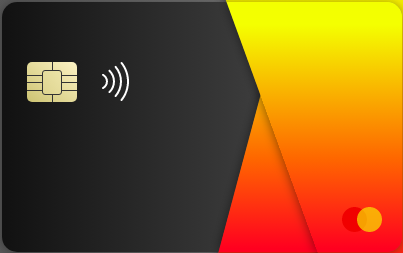
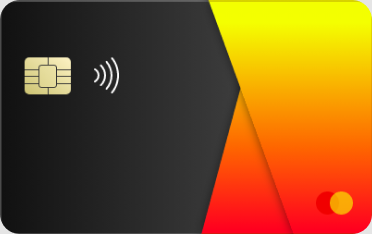
Prototipo Card

diff --git a/client/components/MyCards.js b/client/components/MyCards.js
@@ -1,33 +1,75 @@
-import React, { Component } from "react";
-import { View, Text, StyleSheet } from "react-native";
-import { CreditCardInput, CardView } from "react-native-credit-card-input";
+import React from "react";
+import { View, StyleSheet, Image, Text } from "react-native";
+import { CardView } from "react-native-credit-card-input";
+import ClientCard from "./ClientCard";
+import MenuCards from "./MenuCards";
 
 function CreditCard() {
   return (
     <View style={styles.container}>
-      <CardView
-        appStack
-        brand="henry"
-        name="DR Oliver"
-        number="12345678"
-        expiry="13/20"
-        cvc="12"
-        scale={1.25}
-        imageFront={require("../assets/yellowBackground.png")}
-        imageBack={require("./frontCard.png")}
+      <View style={styles.backMenu}>
+        <Text style={styles.title}>My Cards</Text>
+      <View style={styles.menu}>
+        <MenuCards/>
+      </View>
+      </View>
+      <View style={styles.card}>
+        <CardView
+          onFocused
+          appStack
+          cvc="123" // Epale revisa esto. Ese numero no esta saliendo por ningun lado
+          brand="henry"
+          name="DR Oliver"
+          number="12345678"
+          expiry="13/20"
+          scale={1.25}
+          imageFront={require("../assets/yellowBackground.png")}
+          imageBack={require("../assets/cardBackOk.png")}
+        />
+      </View>
 
-      />
 
+      <ClientCard/>
+      {/* <Image
+        style={styles.img}
+        source={require('../assets/bgSectionCard.jpg')}
+        /> */}
     </View>
+
   );
 }
 
 const styles = StyleSheet.create({
   container: {
-    flex: 1,
     alignItems: "center",
     justifyContent: "center",
-    backgroundColor: "white",
+    backgroundColor: "#FBD43B",
+    flex: 1,
+  },
+  img: {
+    height: "120%", 
+    zIndex: 0,
+  },
+  card: {
+    zIndex: 2,
+    bottom: "10%"
+  },
+  backMenu: {
+    bottom: "16%",
+    width:500,
+    height: 160,
+    backgroundColor: "black",
+    zIndex: 2,
+  },
+  title: {
+    color: "white",
+    fontSize: 40,
+    left: 160,
+    top: "30%",
+  },
+  menu: {
+  top: 685,
+  zIndex: 4
   },
 });
 

diff --git a/client/components/MenuCards.js b/client/components/MenuCards.js
@@ -1,0 +1,29 @@
+import React from 'react';
+import { Container, Header, Content, Footer, FooterTab, Button, Icon, Text } from 'native-base';
+function MenuCards() {
+    return (
+      <Container>
+        <Header />
+        <Content />
+        <Footer>
+          <FooterTab style={{backgroundColor: 'black'}}>
+            <Button vertical>
+              <Icon name="download" style={{ color: 'white' }} />
+              <Text style={{ color: 'white' }}>recharge</Text>
+            </Button>
+   
+            <Button vertical >
+              <Icon active name="send" style={{ color: 'white' }} />
+              <Text style={{ color: 'white' }}>Send</Text>
+            </Button>
+            <Button vertical>
+              <Icon name="trending-up" style={{ color: 'white' }} />
+              <Text style={{ color: 'white' }}>Statistics</Text>
+            </Button>
+          </FooterTab>
+        </Footer>
+      </Container>
+    );
+}
+
+export default MenuCards;

diff --git a/client/components/ClientCard.js b/client/components/ClientCard.js
@@ -1,0 +1,46 @@
+import React from "react";
+import { View, StyleSheet, Image, Text } from "react-native";
+
+function ClientCard() {
+  return (
+      <View style={styles.client}>
+      <Image
+          style={styles.img}
+          source={require('../assets/userDemo.webp')}
+        />
+        <Text style={styles.text}>Roberto Bolañez</Text>
+        <Text style={styles.text}>$400.231,58</Text> 
+      </View>
+
+  );
+}
+
+const styles = StyleSheet.create({
+  client: {
+    // top: "43%",
+    width: 350,
+    height: 150,
+    backgroundColor: "#fb5f3b",
+    zIndex: 2,
+    justifyContent: "center",
+    opacity: 0.77,
+  },
+  img: {
+    width: 66,
+    height: 66,
+    borderRadius: 50,
+    top: 30,
+    left: "7%"
+  },
+  text: {
+    alignSelf: "center",
+    color: "white",
+    fontSize: 24,
+    left: "15%",
+    bottom: "25%"
+  },
+});
+
+export default ClientCard;
+
+

diff --git a/client/App.js b/client/App.js
@@ -5,8 +5,9 @@ import { createStackNavigator } from "@react-navigation/stack";
 import { Provider, useDispatch, useSelector } from "react-redux";
 import { getUserLogged } from "./redux/actions/authActions";
 import store from "./redux/store";
-import Index from "./components";
+// import Index from "./components";
 import * as Font from 'expo-font';
+import CreditCard from './components/MyCards';
 
 const Stack = createStackNavigator();
 
@@ -21,7 +22,7 @@ export default function App() {
 
   return (
     <Provider store={store}>
-      <Index />
+      <CreditCard />
     </Provider>
   );
 }
